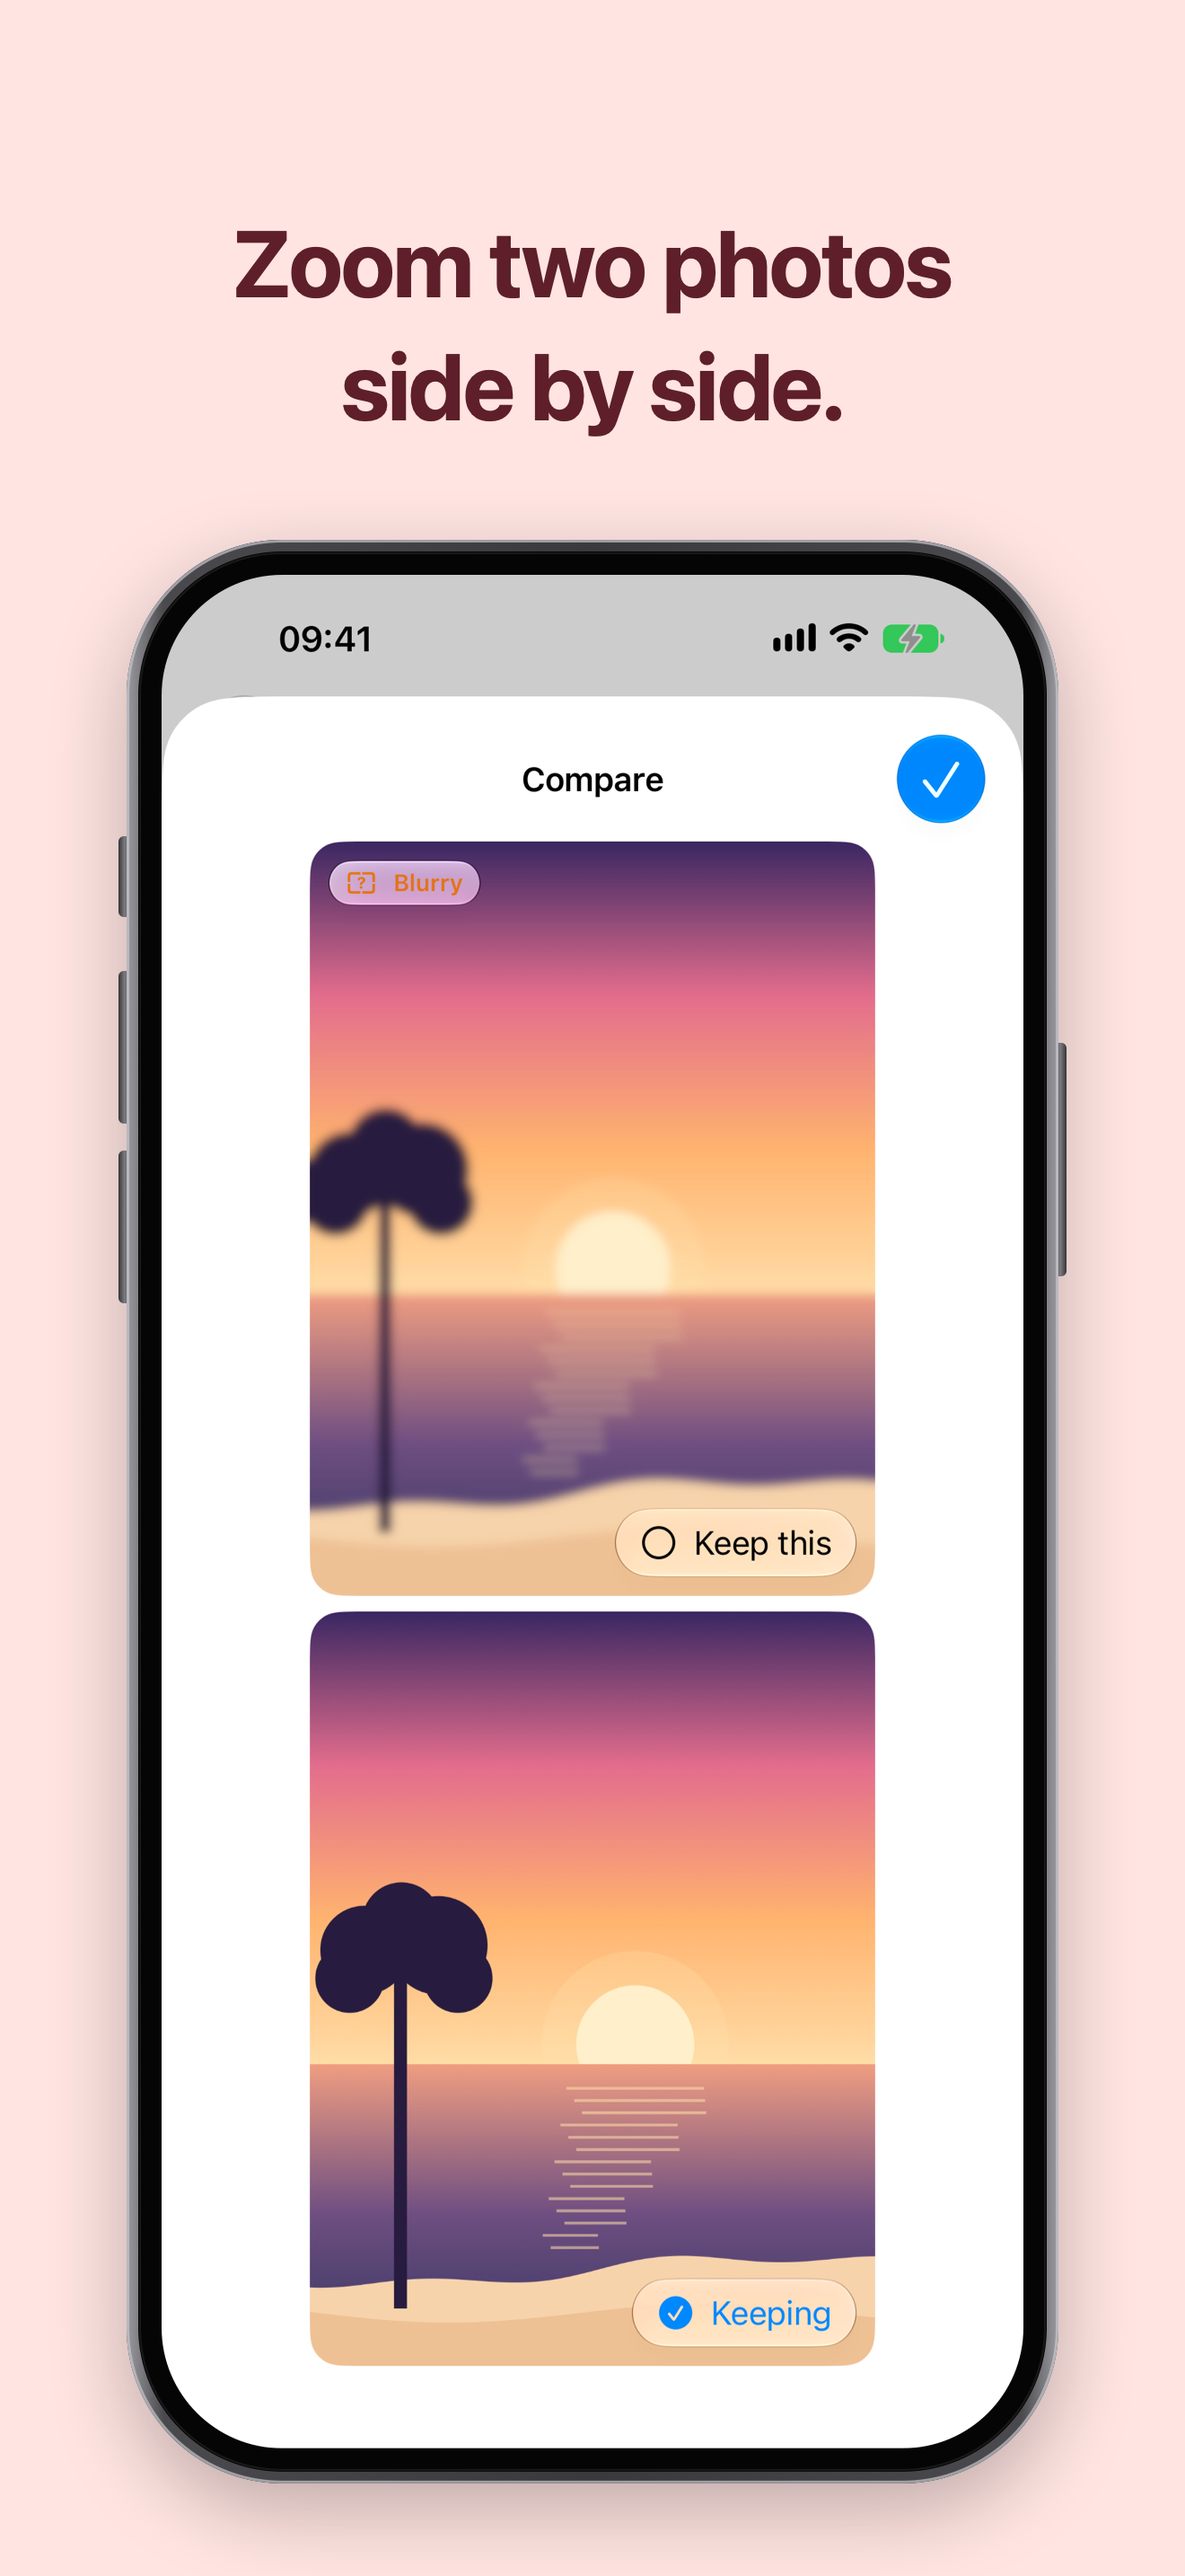
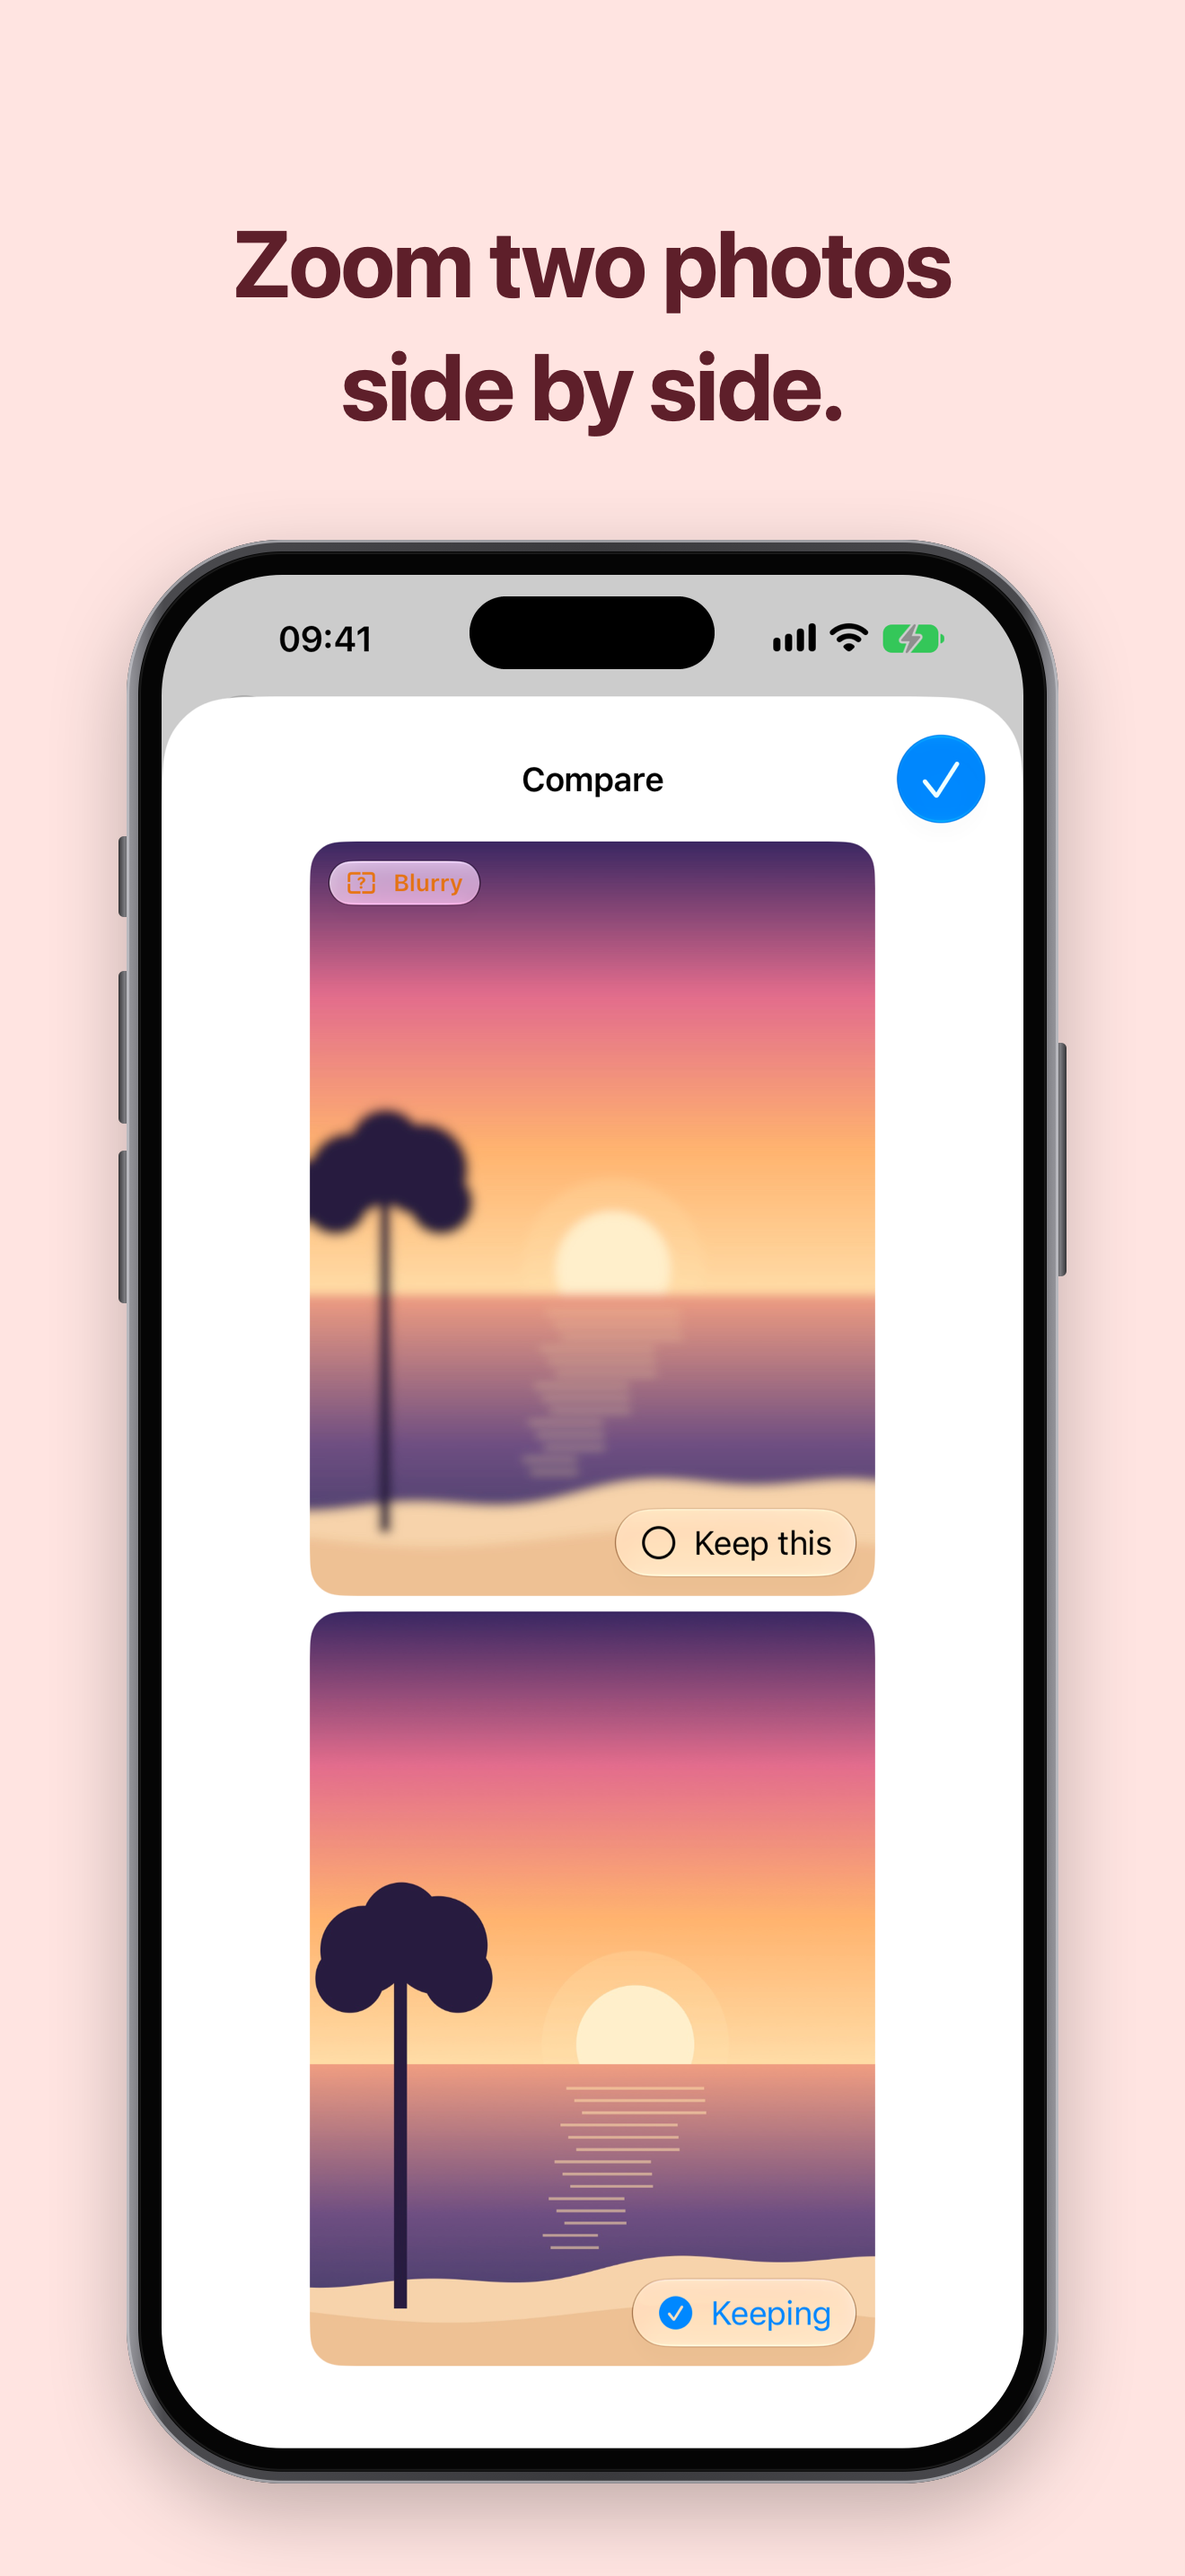
docs(release): Dynamic Island on App Store screenshots, screenshots in README (#2)
* docs(release): draw the Dynamic Island on App Store screenshots

Simulator screenshots don't include the Dynamic Island, so the phone frame
looked unlike a real iPhone. The composer now draws it, and the committed
Korean and English screenshots and the preview sheet are updated to match.

Claude-Session: https://claude.ai/code/session_012kBGn4mQwwsHadXgffSdPU

* docs: show the App Store screenshots in the README

Claude-Session: https://claude.ai/code/session_012kBGn4mQwwsHadXgffSdPU

---------

Changed region(s): [[0.4038, 0.2172, 0.6212, 0.2793]]

diff --git a/scripts/make_store_screens.swift b/scripts/make_store_screens.swift
@@ -142,12 +142,17 @@ for slide in slides {
     ctx.clip()
     ctx.draw(shot, in: screen)
     ctx.restoreGState()
+    // Dynamic Island: simulator screenshots leave it out, so draw it at the iPhone's proportions.
+    let islandW = screenW * 0.284, islandH = screenW * 0.084
+    let island = CGRect(x: screen.midX - islandW / 2, y: screen.maxY - screenW * 0.025 - islandH, width: islandW, height: islandH)
+    ctx.addPath(roundedPath(island, islandH / 2))
+    ctx.setFillColor(NSColor.black.cgColor)
+    ctx.fillPath()
     // Faint glass reflection across the top of the bezel
     ctx.addPath(roundedPath(glass.insetBy(dx: 2, dy: 2), screenRadius + bezel - 2))
     ctx.setStrokeColor(NSColor.white.withAlphaComponent(0.08).cgColor)
     ctx.setLineWidth(2)
     ctx.strokePath()
-    // The simulator screenshot already shows the Dynamic Island.
     NSGraphicsContext.restoreGraphicsState()
     let png = rep.representation(using: .png, properties: [:])!
     try! png.write(to: outDir.appendingPathComponent(lang).appendingPathComponent(slide.shot + ".png"))

diff --git a/README.md b/README.md
@@ -18,6 +18,12 @@
 
 한국어, English, 日本語, 简体中文을 지원하고 다크 모드와 Liquid Glass 디자인을 씁니다.
 
+## 스크린샷
+
+<img src="docs/release/store-screenshots/preview.png" alt="BestCut App Store 스크린샷 (위: 한국어, 아래: English)">
+
+App Store에 올리는 6.9인치 스크린샷입니다(위: 한국어, 아래: English). 원본은 [`docs/release/store-screenshots`](docs/release/store-screenshots)에 있고, `scripts/make_store_screens.swift`로 만듭니다.
+
 ## 개인정보
 
 사진은 iPhone 밖으로 나가지 않습니다. 로그인, 광고, 추적이 없습니다. 여행 이름을 추천할 때만 사진의 장소 좌표를 Apple 지도에 보내 도시 이름을 받아 옵니다. 자세한 내용은 [개인정보처리방침](docs/release/privacy-policy.md)에 있습니다.
